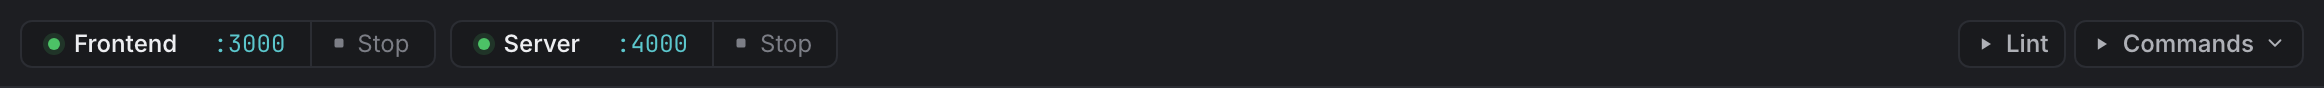
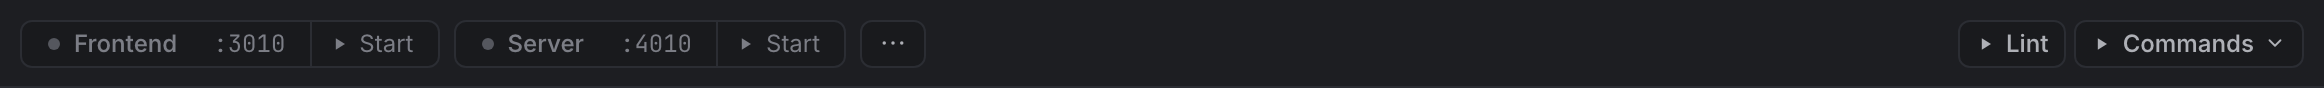
docs: address review feedback on the screenshot refresh (#178)
- The database dialog is always reachable from the worktree ⋯ menu; only
  the rail's Database tools shortcut needs PG_DB, and restore still works
  without one.
- Capture the service rail on feature/checkout, which has a database, so
  the ⋯ overflow the caption describes is in the image.
- Seed the mock's demo changes for the uncommitted-changes capture and
  describe the file list it shows.

Changed region(s): [[0.1549, 0.3864, 0.4028, 0.6136], [0.0, 0.3864, 0.1239, 0.6136]]

diff --git a/website/content/databases.md b/website/content/databases.md
@@ -123,5 +123,7 @@ spinner and the completion toast. Useful when you don't need the main window.
 Switch, snapshot, export, restore and reset assume **Postgres**. Another database still works fine as a
 service; these particular actions just don't apply to it.
 
-There's no snapshot list, because snapshots are databases on the server that you named. And the
-database tools and dialog only appear once a worktree actually has a `PG_DB` in its `.env`.
+There's no snapshot list, because snapshots are databases on the server that you named. The rail's
+**Database tools** shortcut only appears once a worktree has a `PG_DB` in its `.env`. The dialog itself
+is always available from the worktree ⋯ menu → **Database…**: without a configured database, switch,
+snapshot, migration and reset are disabled, and **Restore from file…** still works.

diff --git a/website/content/worktrees.md b/website/content/worktrees.md
@@ -125,7 +125,7 @@ The uncommitted-changes dot beside the branch name in the worktree bar opens one
 read, not selected from: it annotates itself per mode so you can see what the chosen git invocation
 will touch, and the exact command is printed above it.
 
-!shot modal-uncommitted | The uncommitted-changes dialog with a clean working tree. The dot only appears when there is something to commit.
+!shot modal-uncommitted | Commit mode with eight changed files: the four tracked changes go into the commit, and the four untracked files stay out unless you tick *Also add 4 untracked files*.
 
 | Mode | Runs | Options |
 |---|---|---|

diff --git a/website/content/main-window.md b/website/content/main-window.md
@@ -100,7 +100,7 @@ In the ⋯ menu, in order:
 Everything the old service cards used to say, in one 34px row.
 [Services and ports](services-ports.html) covers it in full.
 
-!shot main-rail | The service rail: running services as filled chips, then the ⋯ menu for more services and database tools, and custom commands.
+!shot main-rail | The service rail of a stopped worktree with a database: each service with its port and **Start**, the ⋯ menu holding **Database tools**, then custom commands.
 
 ## Work surface
 

diff --git a/website/content/example-other-stacks.md b/website/content/example-other-stacks.md
@@ -144,7 +144,9 @@ database as part of the service and skip those actions.
 
 ## A stack with no database at all
 
-Nothing requires one. Leave `PG_DB` out and the database tools and dialog simply don't appear:
+Nothing requires one. Leave `PG_DB` out and the rail's **Database tools** shortcut doesn't appear. The
+dialog stays in the worktree ⋯ menu → **Database…** with only **Restore from file…** enabled, in case you
+ever want to load a dump:
 
 ```json
 {
